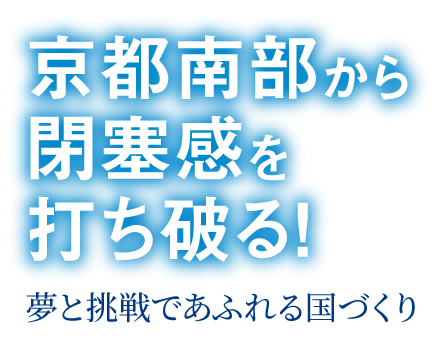
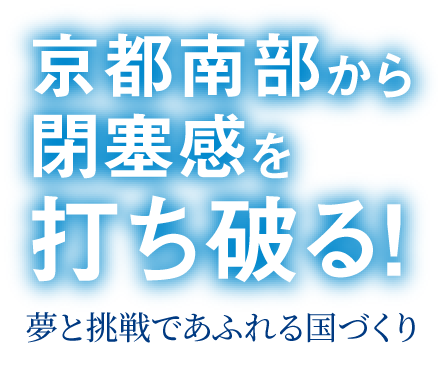
6/26-15:22

diff --git a/css/frontpage.css b/css/frontpage.css
@@ -84,7 +84,7 @@ main {
   .main-top {
     background-size: 132%;
     background-repeat: no-repeat;
-    background-position: center bottom 23%;
+    background-position: center bottom 28%;
   }
 }
 @media (max-width: 900px) {
@@ -163,11 +163,11 @@ main {
   margin-left: -8%;
 }
 .main-top-inner-column-1 picture:first-child {
-  margin-bottom: -9%;
+  margin-bottom: -5%;
   width: 109%;
   margin-left: -9%;
   margin-top: -10%;
-  transform: rotate(2deg);
+  transform: rotate(4deg);
   max-width: 748px;
 }
 .main-top-inner-column-1 picture img {
@@ -813,7 +813,7 @@ main {
   width: 90%;
   margin: 0 auto;
   max-width: 800px;
-  padding: 4% 2% 5%;
+  padding: 4% 0% 5%;
   position: relative;
 }
 @media (max-width: 560px) {
@@ -1154,6 +1154,9 @@ main {
   .policy-box .policy-text .pol-text p {
     text-align: center;
   }
+}
+.policy-box .policy-text-1 {
+  max-width: 531px;
 }
 .policy-box:nth-child(odd) .policy-text {
   left: 3%;

diff --git a/scss/front/_front.scss b/scss/front/_front.scss
@@ -36,7 +36,7 @@ main{
   @include pc{
     background-size: 132%;
     background-repeat: no-repeat;
-    background-position: center bottom 23%;
+    background-position: center bottom 28%;
   }
   @include tab{
     &-inner{
@@ -107,11 +107,11 @@ main{
     z-index: 2;
     margin-left: -8%;
     &:first-child{
-      margin-bottom: -9%;
+      margin-bottom: -5%;
       width: 109%;
       margin-left: -9%;
       margin-top: -10%;
-      transform: rotate(2deg);
+      transform: rotate(4deg);
       max-width: 748px;
     }
     img{

diff --git a/scss/front/_message.scss b/scss/front/_message.scss
@@ -37,7 +37,7 @@
     width: 90%;
     margin: 0 auto;
     max-width: 800px;
-    padding: 4% 2% 5%;
+    padding: 4% 0% 5%;
     position: relative;
 
     @include sp{

diff --git a/scss/front/_policy.scss b/scss/front/_policy.scss
@@ -235,6 +235,9 @@
         }
       }
     }
+    .policy-text-1{
+      max-width: 531px;
+    }
     &:nth-child(odd){
       .policy-text{
         left: 3%;

diff --git a/front-page.php b/front-page.php
@@ -14,9 +14,9 @@
           <img src="<?php echo get_template_directory_uri(); ?>/images/top-catch.png" alt="" class="top-catch" alt="京都南部から閉塞感を打ち破る！">
         </picture>
         <picture>
-          <source media="(max-width: 560px)" srcset="<?php echo get_template_directory_uri(); ?>/images/top-name-sp.png" alt="衆議院京都府第六選挙区支部長 そのさき弘道（園崎ひろみち） トップ名前画像"> 
-          <source media="(min-width: 561px)" srcset="<?php echo get_template_directory_uri(); ?>/images/top-name.png" alt="衆議院京都府第六選挙区支部長 そのさき弘道（園崎ひろみち） トップ名前画像">
-          <img src="<?php echo get_template_directory_uri(); ?>/images/top-name.png" alt="衆議院京都府第六選挙区支部長 そのさき弘道（園崎ひろみち） トップ名前画像">
+          <source media="(max-width: 560px)" srcset="<?php echo get_template_directory_uri(); ?>/images/top-name-2.png" alt="衆議院京都府第六選挙区支部長 そのさき弘道（園崎ひろみち） トップ名前画像"> 
+          <source media="(min-width: 561px)" srcset="<?php echo get_template_directory_uri(); ?>/images/top-name-2.png" alt="衆議院京都府第六選挙区支部長 そのさき弘道（園崎ひろみち） トップ名前画像">
+          <img src="<?php echo get_template_directory_uri(); ?>/images/top-name-2.png" alt="衆議院京都府第六選挙区支部長 そのさき弘道（園崎ひろみち） トップ名前画像">
         </picture>
       </div>
 
@@ -165,7 +165,7 @@
         <div class="p-box-image p-box-image-1 sa sa--up">
         </div>
         <div class="policy-text-wrapp">
-          <div class="policy-text sa sa--up">
+          <div class="policy-text sa sa--up policy-text-1">
             <div class="pol-tit">
               <span class="pol-tit-num">
                 01

diff --git a/header.php b/header.php
@@ -14,7 +14,7 @@
 <meta property="og:title" content="そのさき弘道（園崎ひろみち） | 京都府第六選挙区支部長" />
 <meta property="og:description" content="京都府第六選挙区支部長 そのさき弘道（園崎ひろみち）のオフィシャルサイト。「京都南部から日本再生。」をスローガンとし、夢や挑戦であふれる国づくりに取り組みます。" />
 <link rel="icon alternate" href="/favicon.ico">
-<meta property="og:image" content="https://sonosakimirai.com/wp/wp-content/themes/sonosaki/images/ogp.jpg" />
+<meta property="og:image" content="https://sonosakimirai.com/wp/wp-content/themes/sonosaki/images/ogp.png" />
 <link rel="apple-touch-icon" type="image/png" href="<?php echo get_template_directory_uri(); ?>/images/apple-touch-icon-180x180.png">
 <link rel="icon" type="image/png" href="<?php echo get_template_directory_uri(); ?>/images/icon-192x192.png">
 
